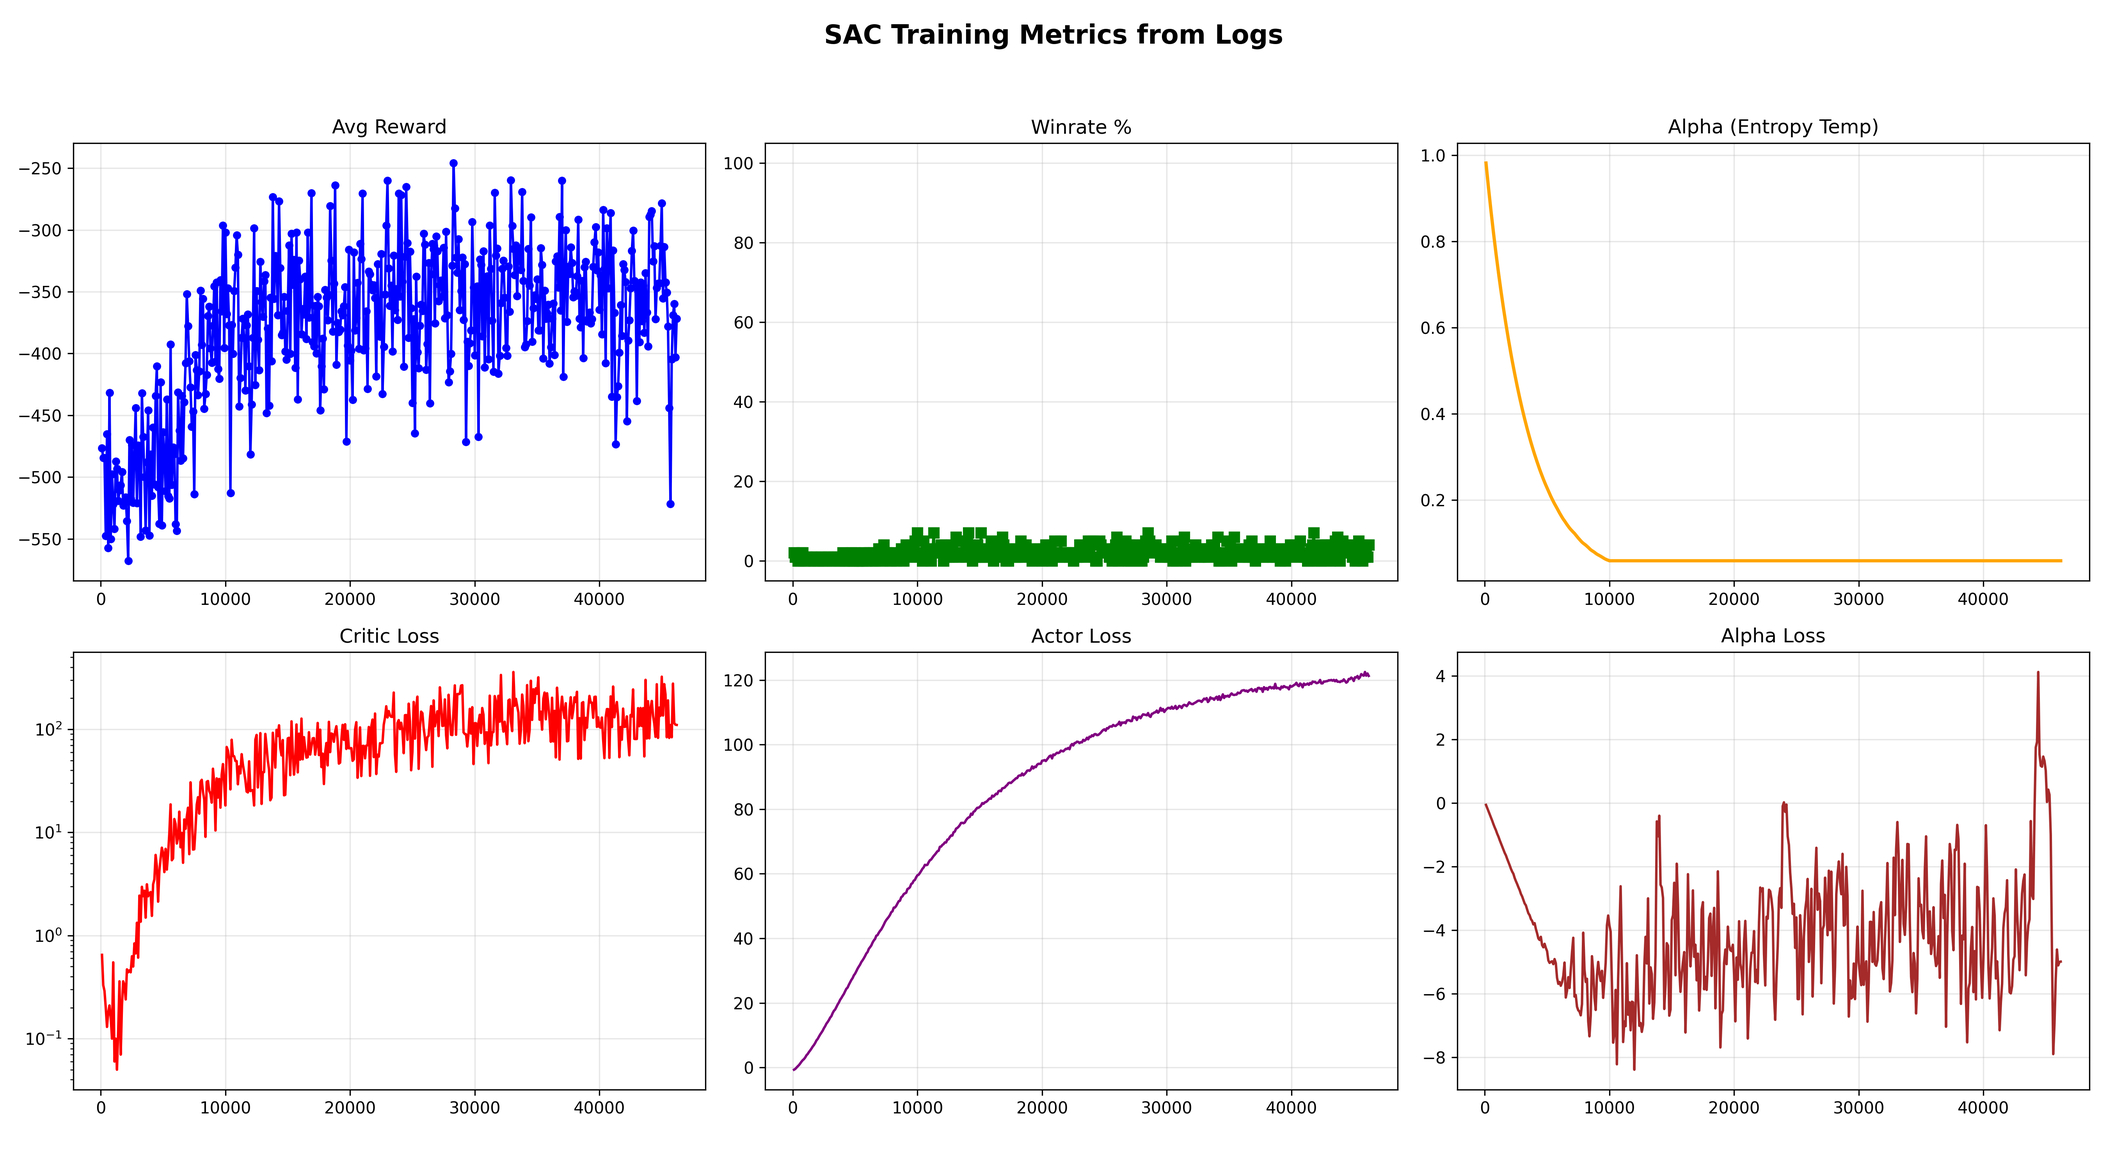
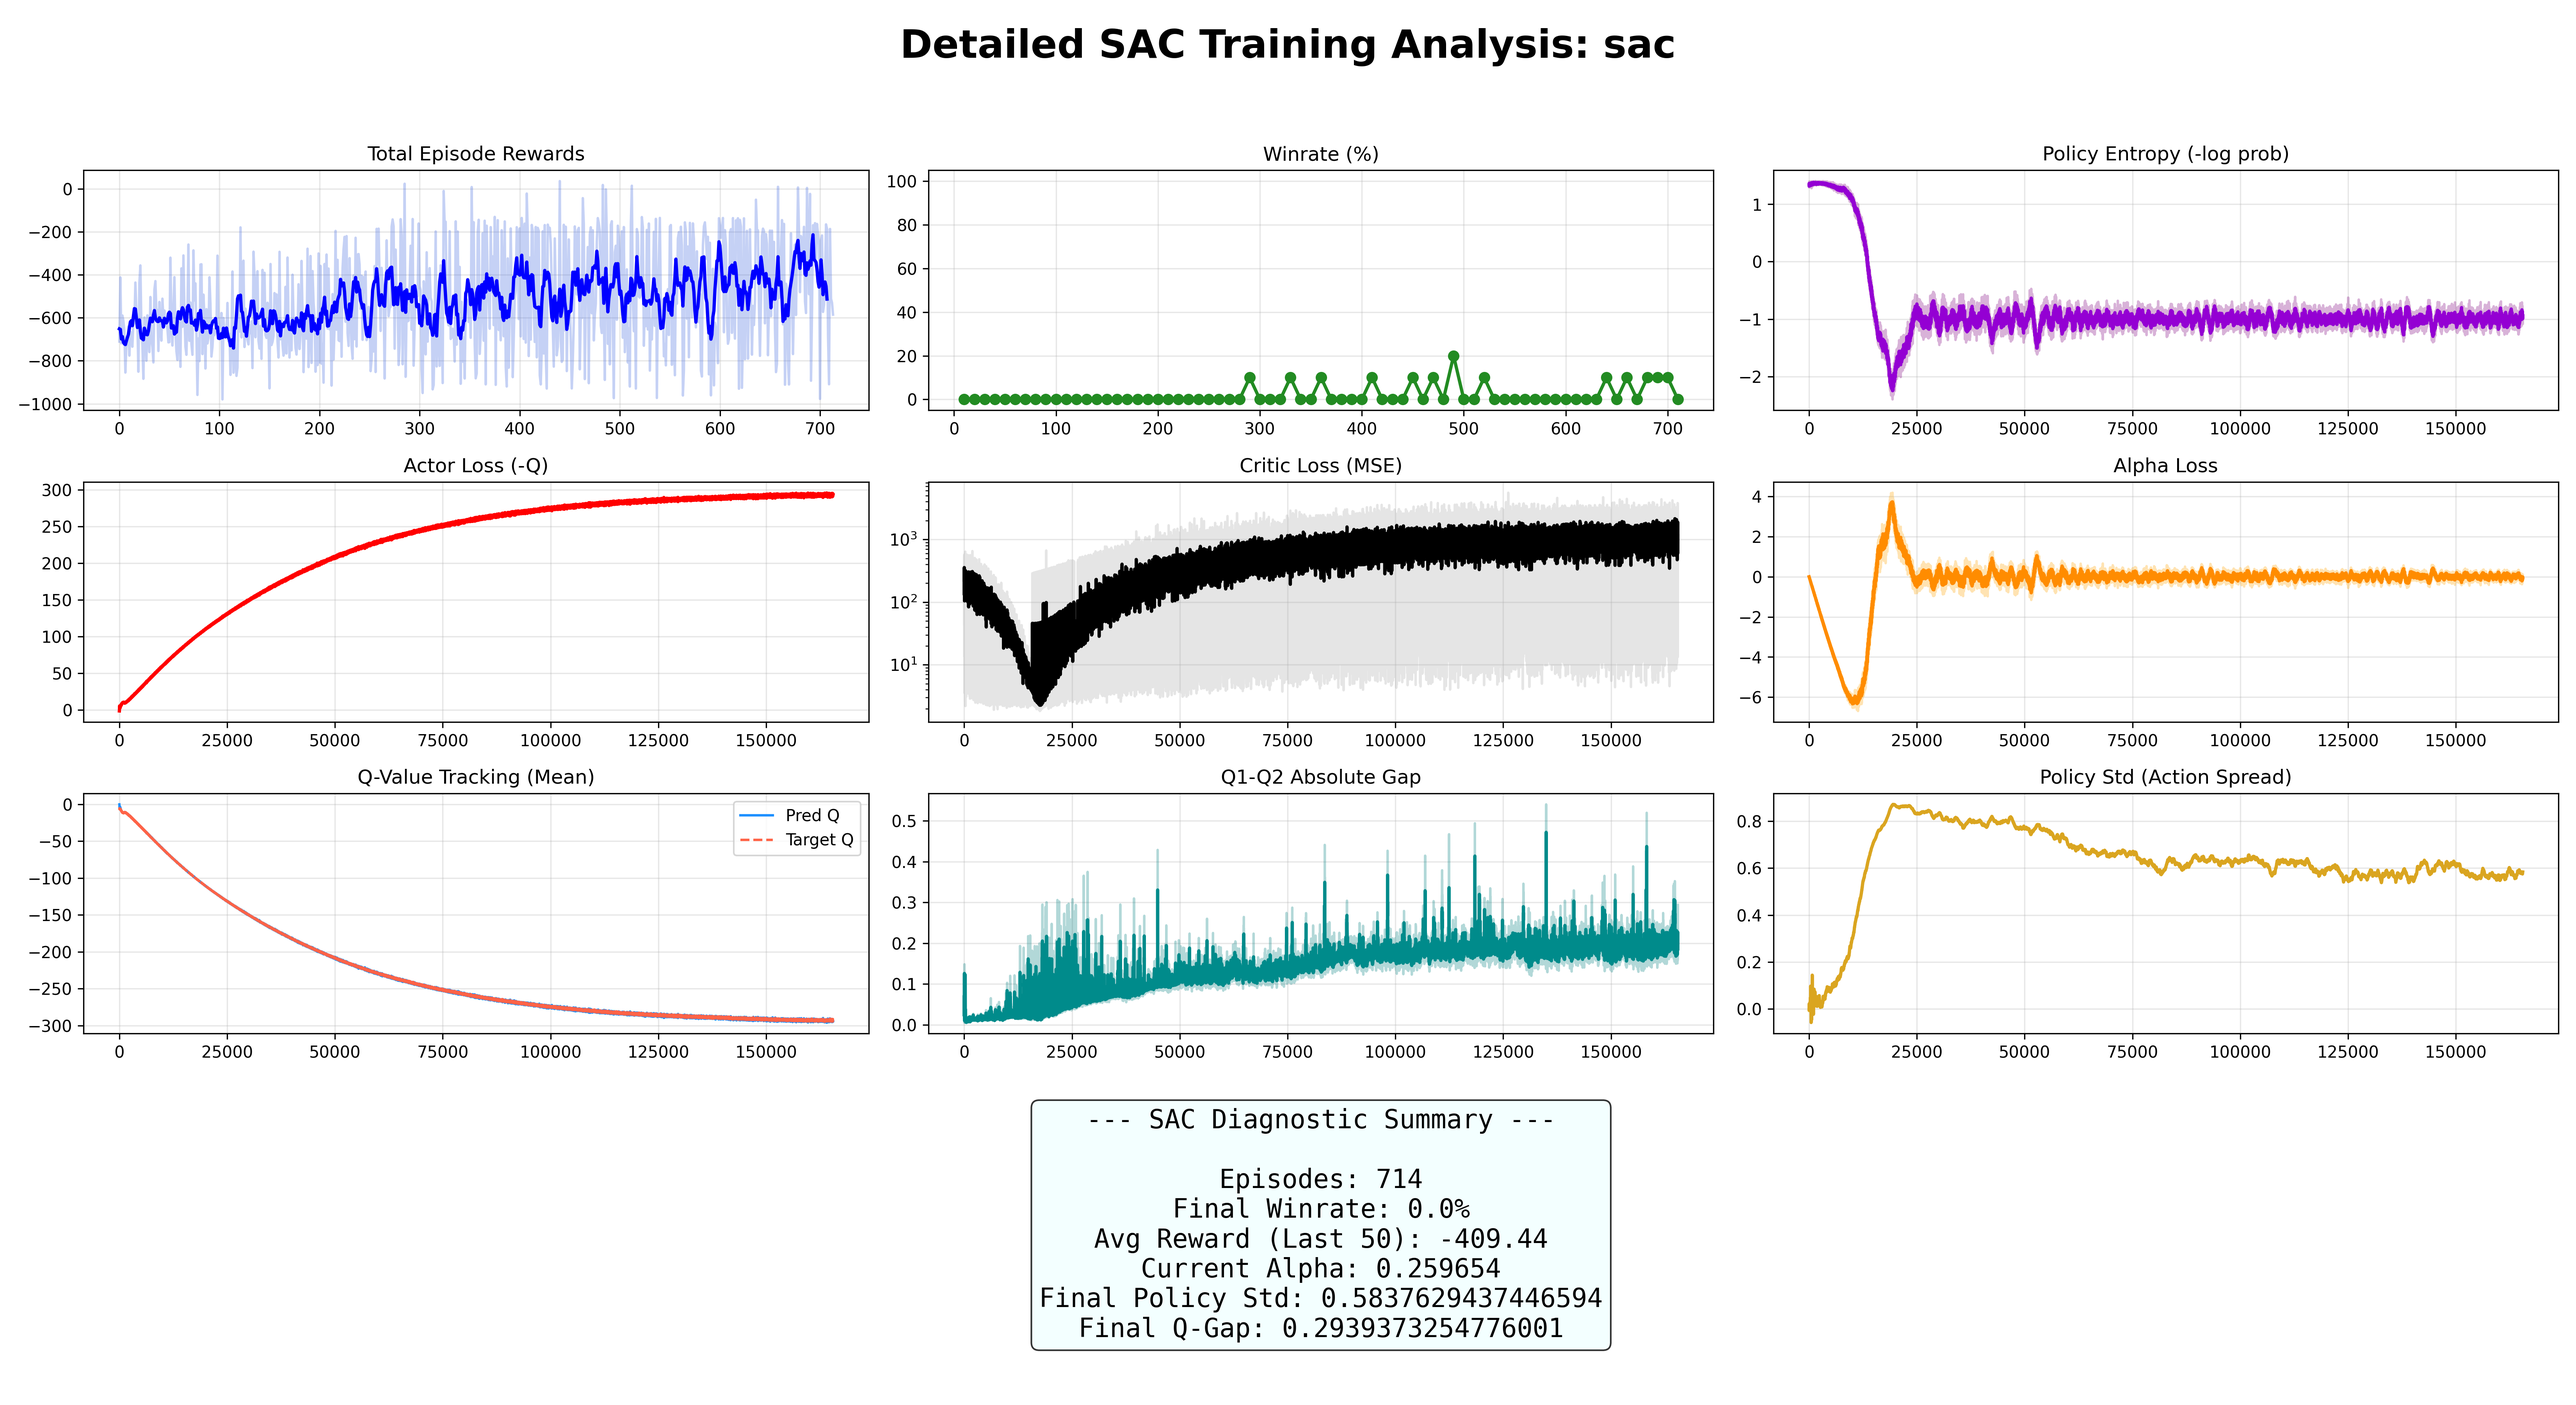
More metrics on SAC, still bad

diff --git a/sac_cnn.py b/sac_cnn.py
@@ -80,10 +80,10 @@ def train_sac(env, model, args, device):
     actor_params = list(model.actor.parameters()) + list(model.cnn.parameters())
     critic_params = list(model.critic1.parameters()) + list(model.critic2.parameters()) + list(model.cnn.parameters())
     actor_opt = optim.Adam(actor_params, lr=args.lr)
-    critic_opt = optim.Adam(critic_params, lr=args.lr)
+    critic_opt = optim.Adam(critic_params, lr=args.lr) # Slower LR for critics can help stabilize training
     
     # Adaptive Entropy (Alpha) Setup
-    target_entropy = -np.prod(env.action_space.shape).item() # Heuristic: -dim(A)
+    target_entropy = -0.5 * np.prod(env.action_space.shape).item() # Heuristic: -dim(A)
     log_alpha = torch.zeros(1, requires_grad=True, device=device)
     alpha_opt = optim.Adam([log_alpha], lr=args.lr)
     
@@ -101,15 +101,26 @@ def train_sac(env, model, args, device):
     actor_loss_history = []
     critic_loss_history = []
     alpha_loss_history = []
+    
+    # Diagnostic Histories
+    entropy_history = []
+    q_mean_history = []
+    q_gap_history = []      # Difference between Q1 and Q2
+    target_q_history = []   # What the critic is trying to reach
+    std_mean_history = []   # How "random" the policy is
+    
     winrates, winrate_epochs = [], []
     start_episode = 0
     wins = 0
+
+    global_step = 0
 
     # --- CHECKPOINT LOADING ---
     if args.load_path and os.path.isfile(args.load_path):
         print(f"Loading checkpoint from {args.load_path}...")
         checkpoint = torch.load(args.load_path, map_location=device, weights_only=False)
-        
+
+        global_step = checkpoint['global_step']
         model.load_state_dict(checkpoint['model_state_dict'])
         actor_opt.load_state_dict(checkpoint['actor_opt_state_dict'])
         critic_opt.load_state_dict(checkpoint['critic_opt_state_dict'])
@@ -123,116 +134,160 @@ def train_sac(env, model, args, device):
         critic_loss_history = checkpoint.get('critic_losses', [])
         alpha_loss_history = checkpoint.get('alpha_losses', [])
         start_episode = len(rewards_history)
+        # New Diagnostics
+        entropy_history = checkpoint.get('entropies', [])
+        q_mean_history = checkpoint.get('q_means', [])
+        q_gap_history = checkpoint.get('q_gaps', [])
+        target_q_history = checkpoint.get('target_qs', [])
+        std_mean_history = checkpoint.get('std_means', [])
         
         print(f"Resuming from episode {start_episode}")
     elif args.load_path:
         print(f"Warning: {args.load_path} not found. Starting fresh.")
 
     obs, _ = env.reset()
-    ep_reward = 0
-    t0 = time.time()
-    start_time = time.time()
+    episode_reward = 0.0
+    episode_length = 0
+    episode_idx = start_episode
+    update_step = 0
 
-    for ep in range(start_episode, start_episode + args.episodes):
-        done = False
-        # 1. Warmup / Action Selection
-        if ep < args.warmup_steps:
+    start_time = time.time()
+    last_log_step = 0
+
+    while episode_idx < args.episodes:
+
+        # ===== ACTION SELECTION =====
+        if global_step < args.warmup_steps:
             action = env.action_space.sample()
         else:
             with torch.no_grad():
-                obs_tensor = torch.FloatTensor(obs).float().unsqueeze(0).to(device)
-                # t0 = time.time()
-                action, _, _ = model.get_action(obs_tensor) # Expects squashed action
-                # print(f"t_act = {time.time() - t0:.3f}s)")
+                obs_tensor = torch.FloatTensor(obs).unsqueeze(0).to(device)
+                action, _, _ = model.get_action(obs_tensor)
                 action = action.cpu().numpy()[0]
-                
-        while not done:
-            # 2. Environment Step
-            # t0 = time.time()
-            next_obs, reward, done, _, info = env.step(action)
-            # print(f"t_step = {time.time() - t0:.3f}s)")
-            ep_reward += reward
-            
-            # 3. Store in Buffer
-            replay_buffer.push(obs, action, reward, next_obs, float(done))
-            obs = next_obs
-            
-            if done:
-                obs, _ = env.reset()
-                rewards_history.append(ep_reward)
-                if info.get('result') == "escaped": 
-                    wins += 1
-                ep_reward = 0
 
-        # 4. Training
-        # t0 = time.time()
-        if replay_buffer.size > args.batch_size and ep >= args.warmup_steps:
-            # Sample Batch
-            b_states, b_actions, b_rewards, b_next_states, b_dones = replay_buffer.sample(args.batch_size)
-            
-            alpha = log_alpha.exp().detach()
+        # ===== ENV STEP =====
+        next_obs, reward, done, _, info = env.step(action)
 
-            # --- CRITIC UPDATE ---
-            with torch.no_grad():
-                next_actions, next_log_probs, _ = model.get_action(b_next_states)
-                target_q1, target_q2 = model.get_target_q(b_next_states, next_actions)
-                target_v = torch.min(target_q1, target_q2) - alpha * next_log_probs
-                target_q = b_rewards + (1 - b_dones) * args.gamma * target_v
+        replay_buffer.push(obs, action, reward, next_obs, float(done))
 
-            current_q1, current_q2 = model.get_q(b_states, b_actions)
-            critic_loss = F.mse_loss(current_q1, target_q) + F.mse_loss(current_q2, target_q)
+        obs = next_obs
+        episode_reward += reward
+        episode_length += 1
+        global_step += 1
 
-            critic_opt.zero_grad()
-            critic_loss.backward()
-            nn.utils.clip_grad_norm_(critic_params, 0.5)
-            critic_opt.step()
+        # ===== TRAINING =====
+        if (
+            global_step >= args.warmup_steps
+            and replay_buffer.size > args.batch_size
+            and global_step % args.train_freq == 0
+        ):
+            for _ in range(args.gradient_steps):
+                b_states, b_actions, b_rewards, b_next_states, b_dones = replay_buffer.sample(args.batch_size)
 
-            # --- ACTOR UPDATE ---
-            curr_actions, curr_log_probs, _ = model.get_action(b_states)
-            q1_pi, q2_pi = model.get_q(b_states, curr_actions)
-            min_q_pi = torch.min(q1_pi, q2_pi)
-            
-            actor_loss = ((alpha * curr_log_probs) - min_q_pi).mean()
+                alpha = log_alpha.exp().detach()
 
-            actor_opt.zero_grad()
-            actor_loss.backward()
-            nn.utils.clip_grad_norm_(actor_params, 0.5)
-            actor_opt.step()
+                # --- CRITIC ---
+                with torch.no_grad():
+                    next_actions, next_log_probs, _ = model.get_action(b_next_states)
+                    target_q1, target_q2 = model.get_target_q(b_next_states, next_actions)
+                    # Ensure shapes match [batch_size, 1]
+                    next_log_probs = next_log_probs.view(-1, 1) 
+                    target_q1 = target_q1.view(-1, 1)
+                    target_q2 = target_q2.view(-1, 1)
+                    target_v = torch.min(target_q1, target_q2) - alpha * next_log_probs
+                    target_q = b_rewards + (1 - b_dones) * args.gamma * target_v
 
-            # --- ALPHA UPDATE ---
-            alpha_loss = -(log_alpha * (curr_log_probs + target_entropy).detach()).mean()
+                current_q1, current_q2 = model.get_q(b_states, b_actions)
+                current_q1 = current_q1.view(-1, 1)
+                current_q2 = current_q2.view(-1, 1)
+                critic_loss = F.mse_loss(current_q1, target_q) + F.mse_loss(current_q2, target_q)
 
-            alpha_opt.zero_grad()
-            alpha_loss.backward()
-            alpha_opt.step()
+                critic_opt.zero_grad()
+                critic_loss.backward()
+                nn.utils.clip_grad_norm_(critic_params, 0.5)
+                critic_opt.step()
 
-            # --- SOFT UPDATE TARGET NETWORKS ---
-            model.soft_update_targets(args.tau)
+                # --- ACTOR ---
+                curr_actions, curr_log_probs, _ = model.get_action(b_states)
+                q1_pi, q2_pi = model.get_q(b_states, curr_actions)
+                min_q_pi = torch.min(q1_pi, q2_pi)
 
-            # Store metrics
-            actor_loss_history.append(actor_loss.item())
-            critic_loss_history.append(critic_loss.item())
-            alpha_loss_history.append(alpha_loss.item())
-        # print(f"ep {ep} | t_upd = {time.time() - t0:.3f}s)")
+                actor_loss = ((alpha * curr_log_probs) - min_q_pi).mean()
 
-        # 5. Logging
-        if done and ep % args.log_interval == 0 and ep >= args.warmup_steps and replay_buffer.size > args.batch_size:
-            ep_time = time.time() - start_time
-            avg_reward = np.mean(rewards_history[-args.log_interval:])
-            current_alpha = log_alpha.exp().item()
-            
-            print(f"SAC | Ep: {ep} | Avg Reward: {avg_reward:.2f} | Winrate {wins/args.log_interval:.2f} | Time: {ep_time:.3f}s | ",
-                  f"Critic L: {critic_loss.item():.2f} | Actor L: {actor_loss.item():.2f} | Alpha L: {alpha_loss.item():.2f} | Alpha: {current_alpha:.4f}"
-            )
-            
-            winrates.append(wins/args.log_interval)
-            winrate_epochs.append(ep)
-            wins = 0
-            start_time = time.time()
+                actor_opt.zero_grad()
+                actor_loss.backward()
+                nn.utils.clip_grad_norm_(actor_params, 0.5)
+                actor_opt.step()
 
-        # 6. Periodic Save
-        if ep % args.save_interval == 0 and ep > args.warmup_steps:
+                # --- ALPHA ---
+                alpha_loss = -(log_alpha * (curr_log_probs + target_entropy).detach()).mean()
+
+                alpha_opt.zero_grad()
+                alpha_loss.backward()
+                alpha_opt.step()
+
+                # --- DIAGNOSTIC METRIC CALCULATION ---
+                with torch.no_grad():
+                    # 1. Entropy: SAC tries to keep this high
+                    entropy_history.append(-curr_log_probs.mean().item())
+
+                    # 2. Q-Values: Track if they are exploding or collapsing
+                    q_mean_history.append(current_q1.mean().item())
+                    target_q_history.append(target_q.mean().item())
+
+                    # 3. Q-Gap: Are the two critics diverging?
+                    # Calculation: mean(abs(Q1 - Q2))
+                    q_gap = (current_q1 - current_q2).abs().mean().item()
+                    q_gap_history.append(q_gap)
+
+                    # 4. Policy Std: How "brave" is the agent?
+                    _, _, curr_mean = model.get_action(b_states) 
+                    std_mean_history.append(curr_mean.mean().item())
+
+                model.soft_update_targets(args.tau)
+
+                update_step += 1
+
+                # store metrics
+                actor_loss_history.append(actor_loss.item())
+                critic_loss_history.append(critic_loss.item())
+                alpha_loss_history.append(alpha_loss.item())
+
+        # ===== EPISODE END =====
+        if done:
+            rewards_history.append(episode_reward)
+
+            if info.get('result') == "escaped":
+                wins += 1
+
+            episode_idx += 1
+
+            # logging
+            if episode_idx % args.log_interval == 0:
+                avg_reward = np.mean(rewards_history[-args.log_interval:])
+                current_alpha = log_alpha.exp().item()
+
+                print(
+                    f"SAC | Ep: {episode_idx} | "
+                    f"AvgR: {avg_reward:.2f} | "
+                    f"Winrate: {wins/args.log_interval:.2f} | "
+                    f"Alpha: {current_alpha:.4f} | "
+                    f"Steps: {global_step}"
+                )
+
+                winrates.append(wins / args.log_interval)
+                winrate_epochs.append(episode_idx)
+                wins = 0
+
+            # reset
+            obs, _ = env.reset()
+            episode_reward = 0.0
+            episode_length = 0
+
+        # ===== SAVE =====
+        if global_step % args.save_interval == 0 and global_step > args.warmup_steps:
             torch.save({
+                'global_step': global_step,
                 'model_state_dict': model.state_dict(),
                 'actor_opt_state_dict': actor_opt.state_dict(),
                 'critic_opt_state_dict': critic_opt.state_dict(),
@@ -244,24 +299,31 @@ def train_sac(env, model, args, device):
                 'actor_losses': actor_loss_history,
                 'critic_losses': critic_loss_history,
                 'alpha_losses': alpha_loss_history,
+                'entropies': entropy_history,
+                'q_means': q_mean_history,
+                'q_gaps': q_gap_history,
+                'target_qs': target_q_history,
+                'std_means': std_mean_history,
             }, args.save_path)
-
+        
     # --- FINAL SAVE ---
     print(f"Training finished. Final model saved to {args.save_path}")
 
 if __name__ == '__main__':
     # Run with
-    # python sac_cnn.py --episodes 20000 --save_path sac/sac_cnn.pt --device cuda
+    # python sac_cnn.py --episodes 20000 --device cuda --buffer_device cuda --save_path sac/sac_cnn_20k.pt --gradient_steps 5 --tau 0.001
     parser = argparse.ArgumentParser()
     parser.add_argument('--episodes', type=int, default=20000)
-    parser.add_argument('--warmup_steps', type=int, default=40, help="Random actions before training starts")
-    parser.add_argument('--buffer_size', type=int, default=20000)
-    parser.add_argument('--batch_size', type=int, default=1000)
+    parser.add_argument('--warmup_steps', type=int, default=20_000, help="Random actions before training starts")
+    parser.add_argument('--buffer_size', type=int, default=100_000)
+    parser.add_argument('--train_freq', type=int, default=1)
+    parser.add_argument('--gradient_steps', type=int, default=1)
+    parser.add_argument('--batch_size', type=int, default=256)
     parser.add_argument('--lr', type=float, default=3e-4)
     parser.add_argument('--gamma', type=float, default=0.99)
     parser.add_argument('--tau', type=float, default=0.005, help="Target network soft update rate")
-    parser.add_argument('--log_interval', type=int, default=100)
-    parser.add_argument('--save_interval', type=int, default=1000)
+    parser.add_argument('--log_interval', type=int, default=10)
+    parser.add_argument('--save_interval', type=int, default=100)
     parser.add_argument('--save_path', type=str, default='sac/sac_cnn.pt')
     parser.add_argument('--load_path', type=str, default=None)
     parser.add_argument('--device', type=str, default='cpu')

diff --git a/sac_train.py b/sac_train.py
@@ -160,7 +160,7 @@ def train_sac(args):
     q_opt = optim.Adam(list(q1.parameters()) + list(q2.parameters()), lr=args.lr)
 
     # Automatic entropy temperature tuning
-    target_entropy = -float(act_dim) if args.target_entropy is None else float(args.target_entropy)
+    target_entropy = -0.25*float(act_dim) if args.target_entropy is None else float(args.target_entropy)
     log_alpha = torch.tensor(np.log(args.init_alpha), device=device, requires_grad=True)
     alpha_opt = optim.Adam([log_alpha], lr=args.lr)
 
